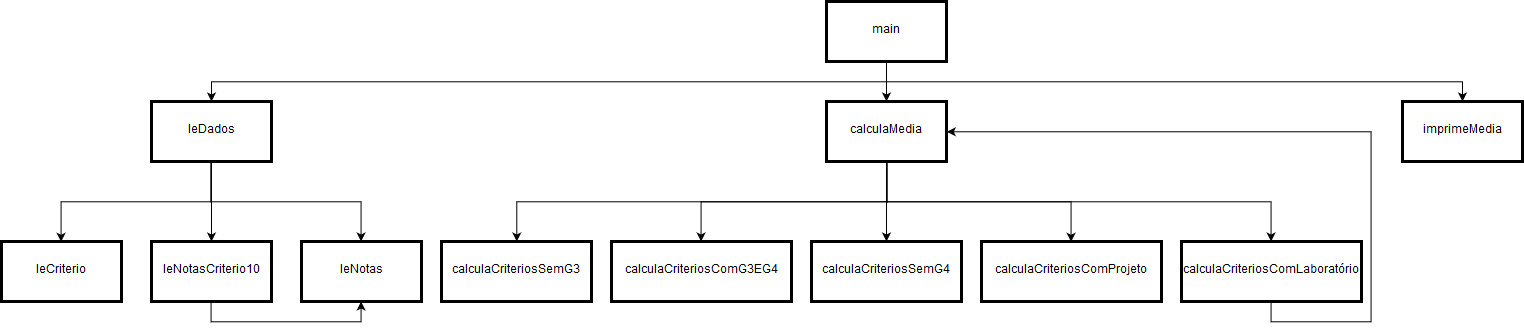
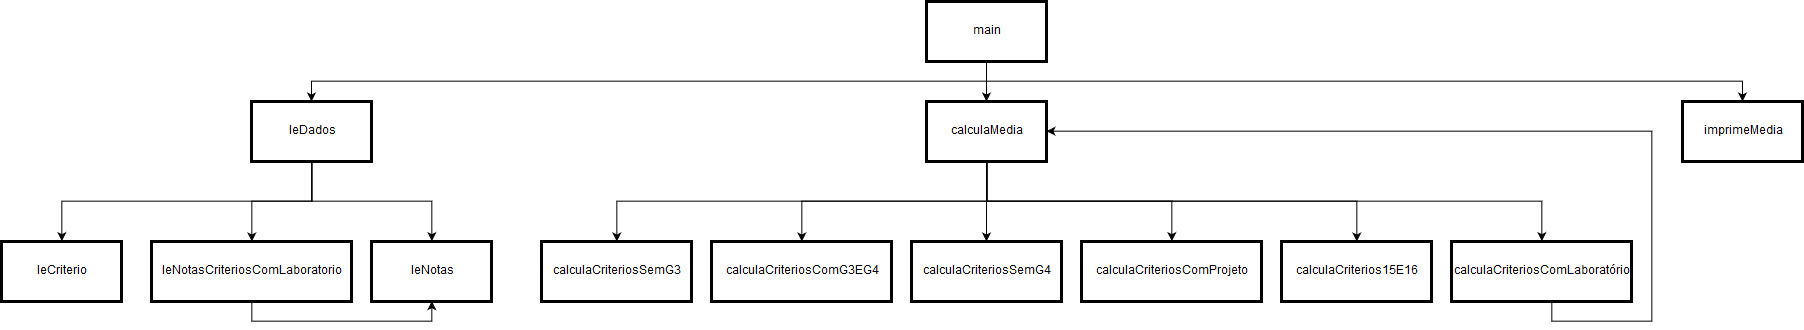
Mudanças no cálculo dos critérios
Houve mudanças no cálculo dos critérios, pois no documento no qual se
baseava o programa o cálculo dos critérios estava diferente do mostrado
no puc-online. Com isso houve mudanças no código, como a checagem de
novos critérios, a criação da função calculaCriterios15E16 e a mudança
do nome da função leNotasCriterio10 para leNotasCriteriosComLaboratorio,
pois, no puc-online, havia mais de um critério com nota de laboratório.
Além disso, foram feitos alguns testes e algumas correções no programa.
O diagrama e o README foram atualizados com as mudanças e o livro diário
foi atualizado com as mudanças de hoje.

diff --git a/README.md b/README.md
@@ -1,7 +1,7 @@
 # INF1629-G1
 Trabalho 1 da disciplina INF1629 (Princípios de Engenharia de Software)
 
-O programa calcula a média de uma disciplina, através do cálculo da média para cada critério, conforme mostrado em: http://www.ccpe.ctc.puc-rio.br/normas/
+O programa calcula a média de uma disciplina, através do cálculo da média para cada critério, conforme mostrado na página de critérios de avaliação de disciplinas no puc-online
 
 ## Diagrama
 ![Diagrama](https://github.com/renandafonte/INF1629-G1/raw/master/diagrama.jpg)
@@ -18,4 +18,4 @@ Diagrama feito através do site draw.io
 
 08/04 - Início do projeto, criação do diagrama, criação das funções main, leDados, calculaMedia e imprimeMedia
 
-09/04 - Mudanças no diagrama, separação do código em mais funções
+09/04 - Mudanças no diagrama, separação do código em mais funções, mudanças no cálculo dos critérios, atualização do código e do diagrama para refletir as mudanças, testes e correções de problemas
